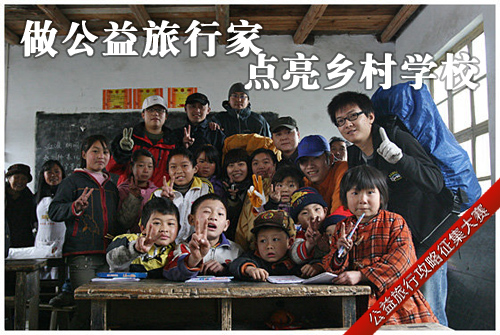
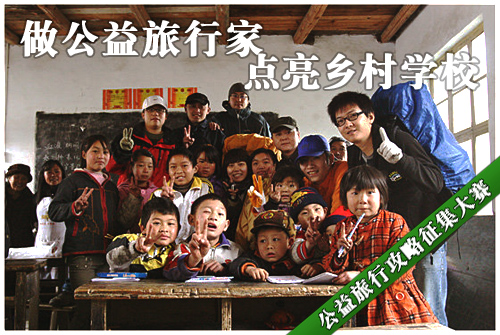
change color

diff --git a/public/stylesheets/lightenschool.css b/public/stylesheets/lightenschool.css
@@ -1,37 +1,36 @@
 .lcolumn {float:left; margin-left:10px;-margin-left:0px; width:520px;}
-.rcolumn {float:right; width:360px;}
+.rcolumn {float:right; width:360px;margin-right:10px;}
 
-h2{color:#c45400;line-height:1.3em;font-size:1.3em;float:left;font-family:黑体}
-.h2bar{width:100%;padding:8px 5px 8px 10px;background:#ffeab0;height:20px;margin:20px 0 10px;}
-.h2bar span{float:right;margin:3px 5px 0 0;}
-.h2bar h2 a{color:#c45400}
+h2{color:#569701;line-height:1.5em;font: bold 1.5em Arial, Helvetica, sans-serif;float:left;}
+.h2bar{width:100%;padding:8px 5px 8px 10px;background:#c6e787;height:22px;margin:20px 0 10px;}
+.h2bar span{float:right;margin:4px 5px 0 0;}
+.h2bar h2 a{color:#569701}
 .h2bar h2 a:hover{color:#ff9000}
 
 
 .boxouter h3 {
-color:#c45400;
+color:#569701;
 padding:8px 12px;
-background:#ffeab0;
-font-size:1.3em;
+background:#c6e787;
 line-height:1.3em;
-font-family:黑体;
+font: bold 1.5em Arial, Helvetica, sans-serif;
 }
 
 .tableList{margin-bottom:5px;}
 
 .boxouter{margin-top:15px;}
 .boxinter{padding:15px;}
-.boxinter p{font-size:14px;line-height:24px;margin-bottom:10px;}
-.boxinter li{font-size:14px;list-style:none;line-height:24px;}
+.boxinter p{font-size:12px;line-height:20px;margin-bottom:10px;}
+.boxinter li{font-size:12px;list-style:none;line-height:24px;}
 
-#timeline {font-size:1em;width:280px;margin-left:20px;color:#d67900;}
-#timeline th{background:#fffae3;border: 1px #d67900 solid;font-weight:normal;}
+#timeline {font-size:1em;width:280px;margin-left:20px;color:#569701;}
+#timeline th{background:#e3fbb4;border: 1px #569701 solid;font-weight:normal;}
 .lefttable{text-align:right}
 
-.category{background:#fffae3;margin-bottom:20px;border:1px #d67900 solid;width:320px;margin-left:10px;}
+.category{background:#e3fbb4;margin-bottom:20px;border:1px #569701 solid;width:320px;margin-left:10px;}
 .category p {color:＃606060;text-indent:1em;font-style: italic;margin:4px;font-size:1em;}
 .category h4{display:block;
-background:#c45400;
+background:#569701;
 color:white;
 width:100%;
 font-size:1.2em;
@@ -40,8 +39,9 @@ line-height:1.2em;
 text-indent:1em;
 padding:5px 0;
 }
+  
 
-.prize{width:270px;height:78px;padding:10px;border: 1px #ffc780 dashed; margin:15px;background:#fff6d1;}
+.prize{width:270px;height:78px;padding:10px;border: 1px #b1d271 dashed; margin:15px;background:#f4ffde;}
 
 .prize img{border: 1px #888 double;float:left}
 .info{float:left;margin-left:20px;-margin-left:10px; padding:5px;}
